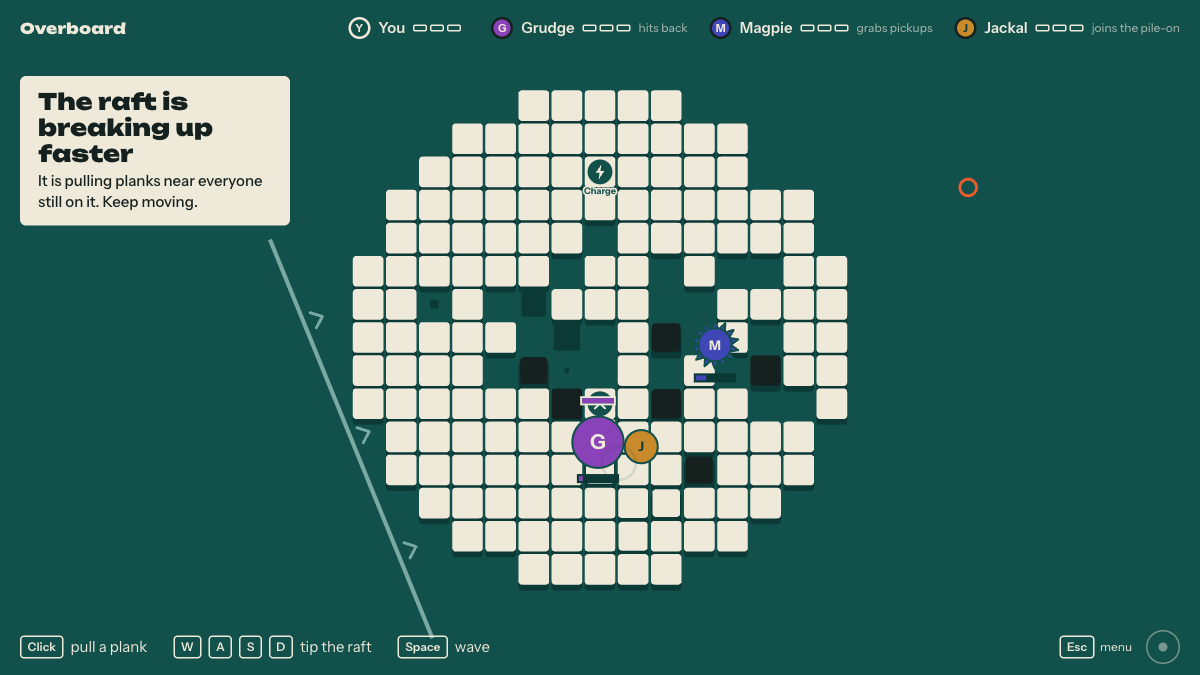
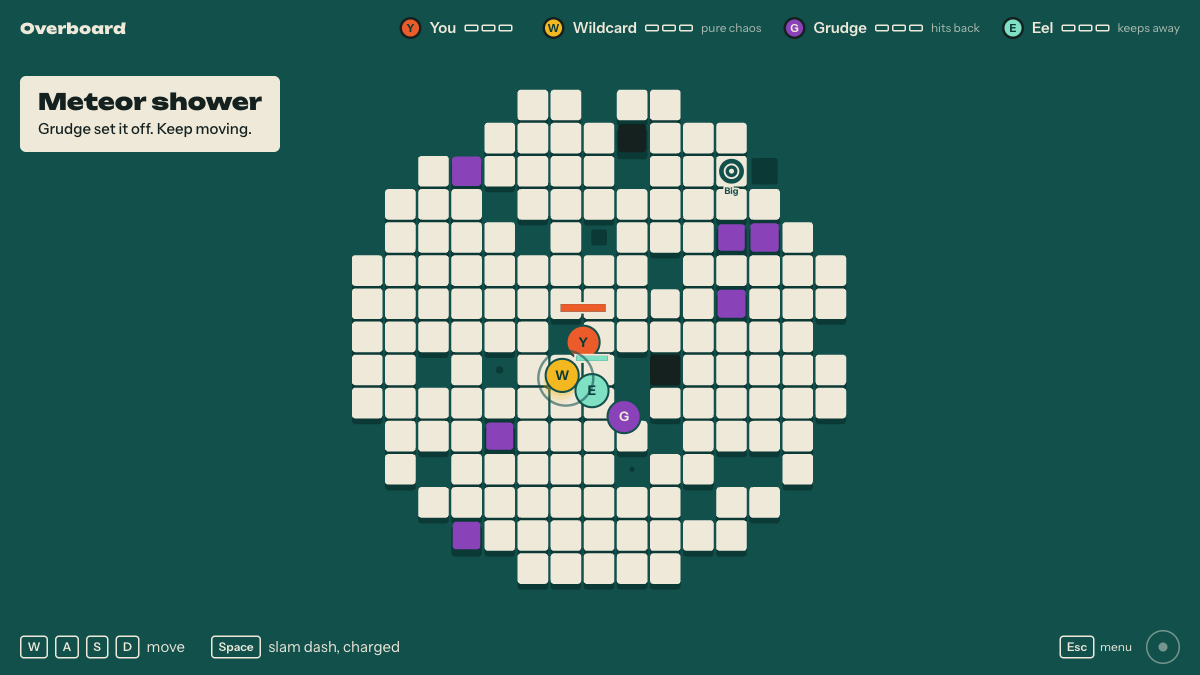
Replace ghosted README screenshot with active round

diff --git a/README.md b/README.md
@@ -4,7 +4,7 @@ Bumper sumo on a raft. Knock everyone else into the water. If you fall in, you c
 
 **[Play Overboard](https://overboard-game.vercel.app/)** on a computer or phone.
 
-![A solo round with the raft breaking apart while the remaining players fight](docs/gameplay.png)
+![You, the orange player, facing three bots as a meteor shower breaks the raft apart](docs/gameplay.png)
 
 ## Play
 
